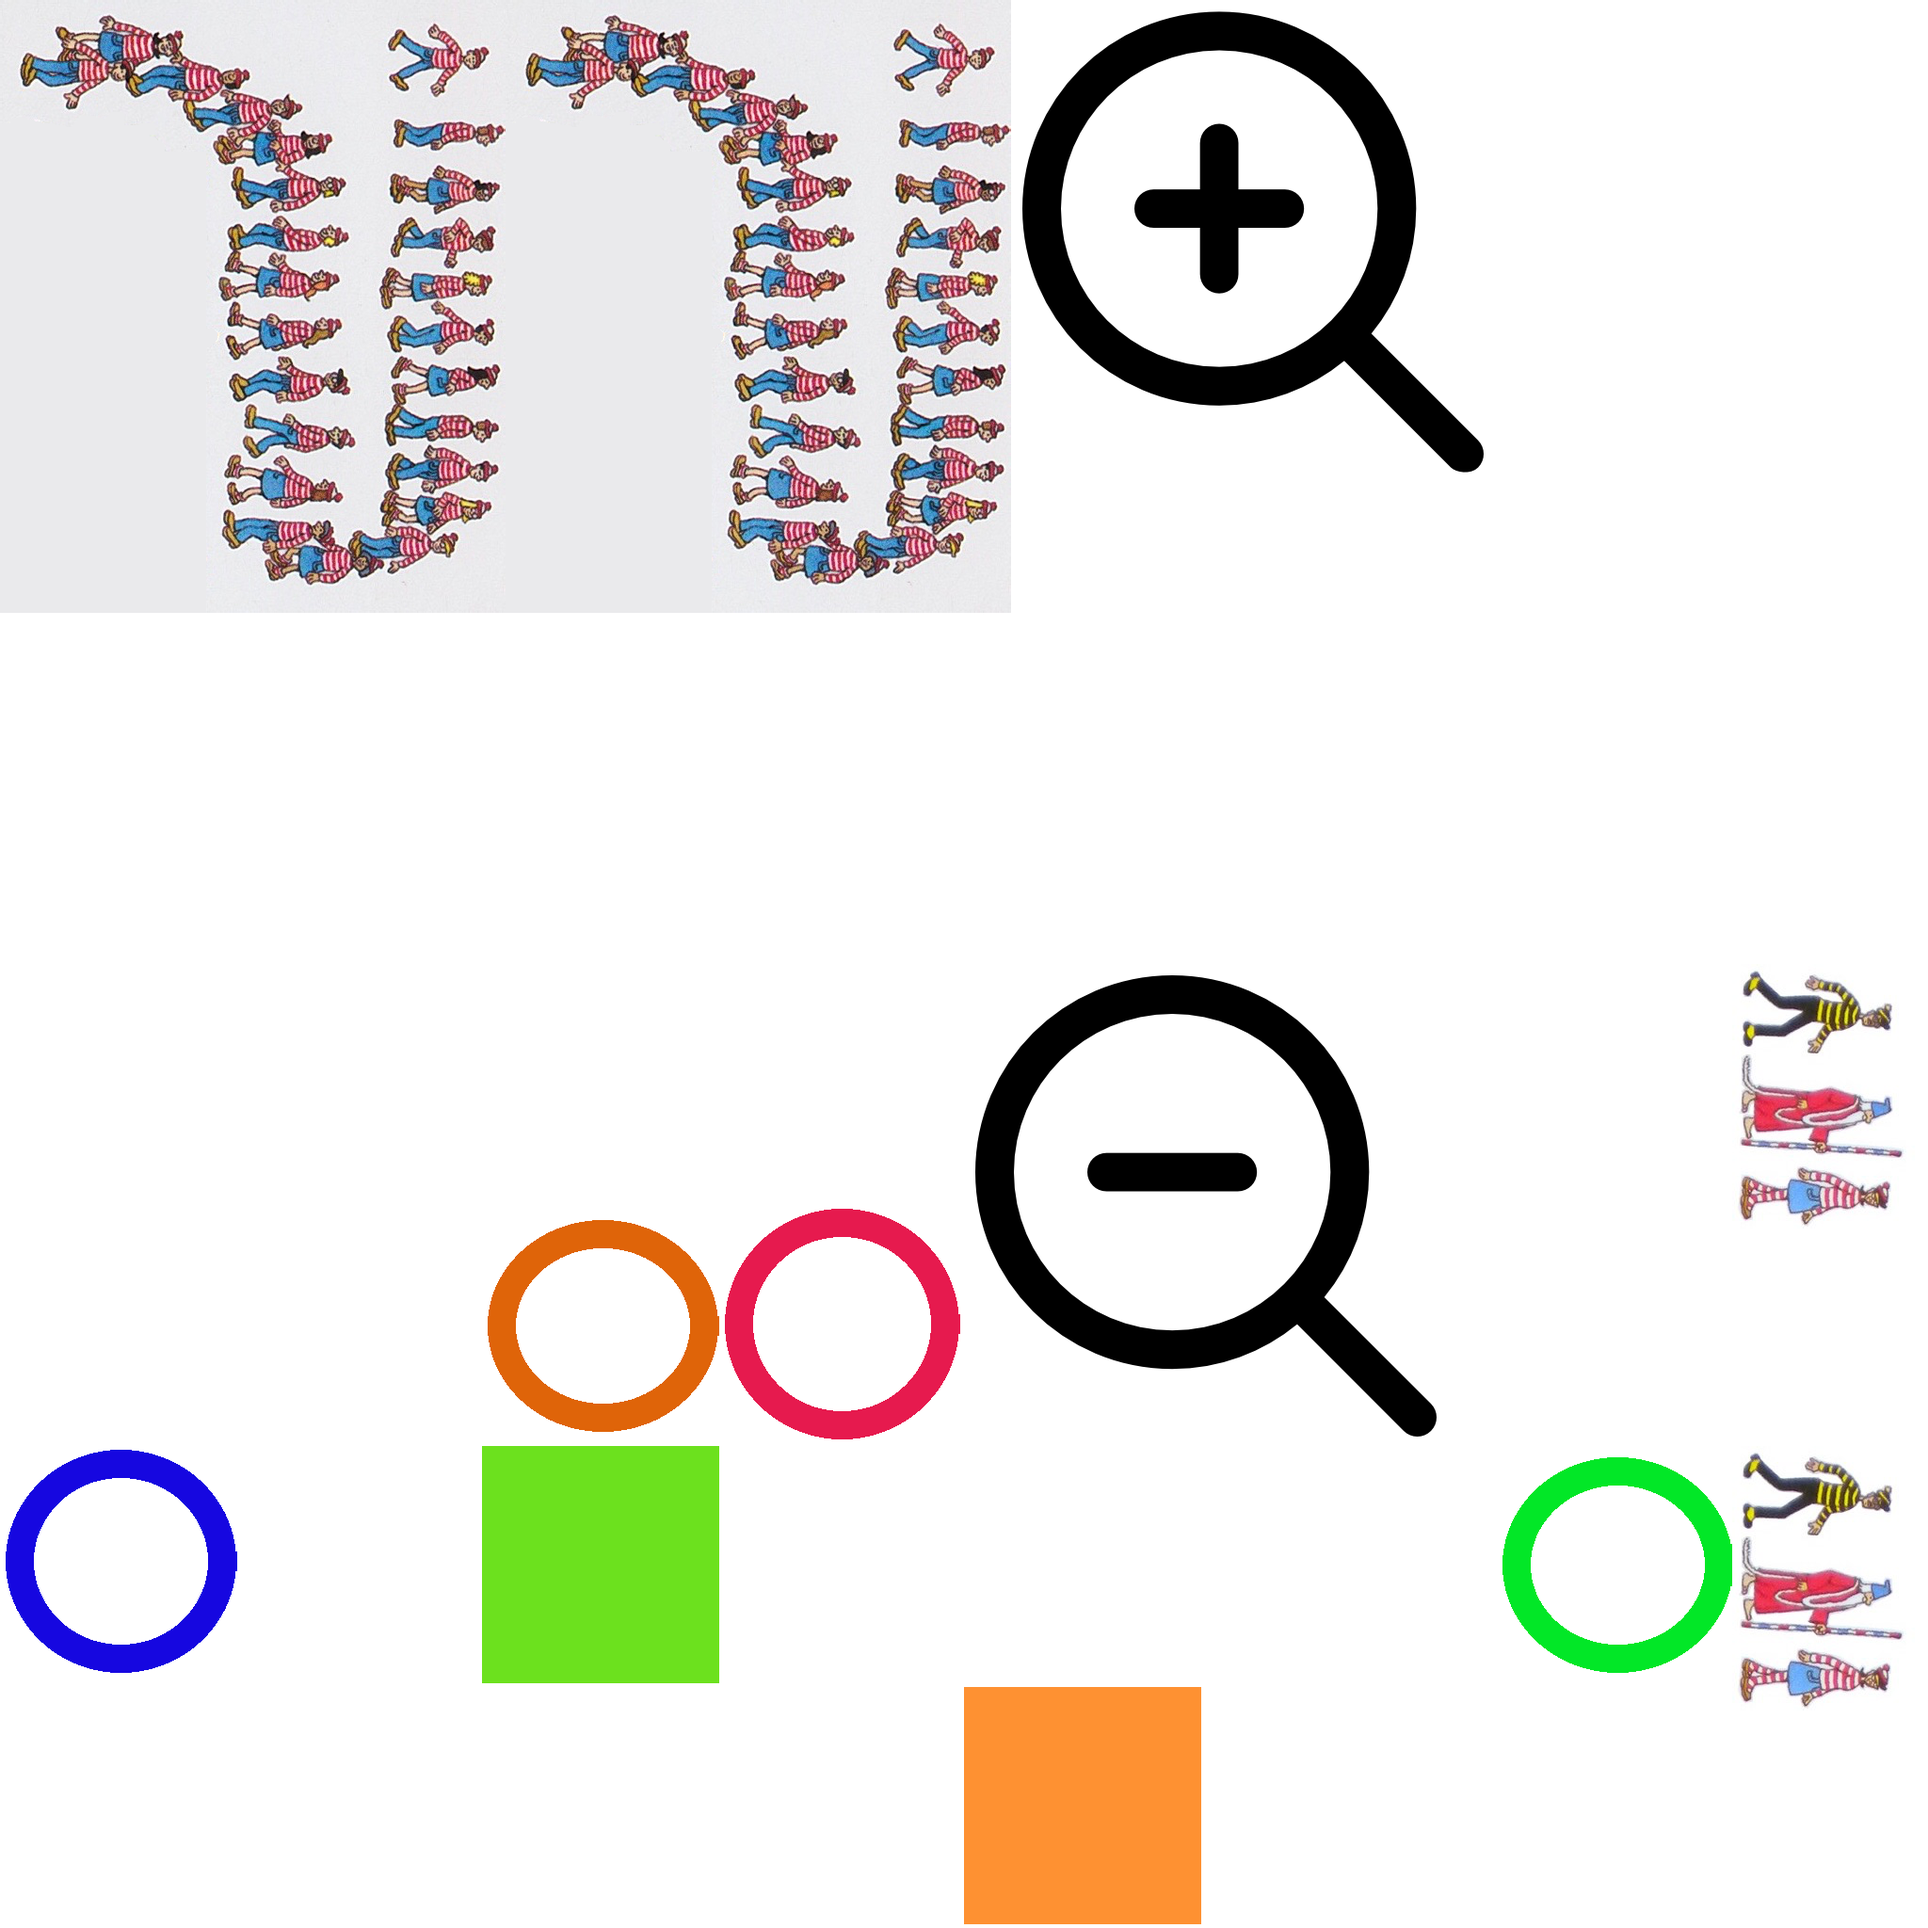
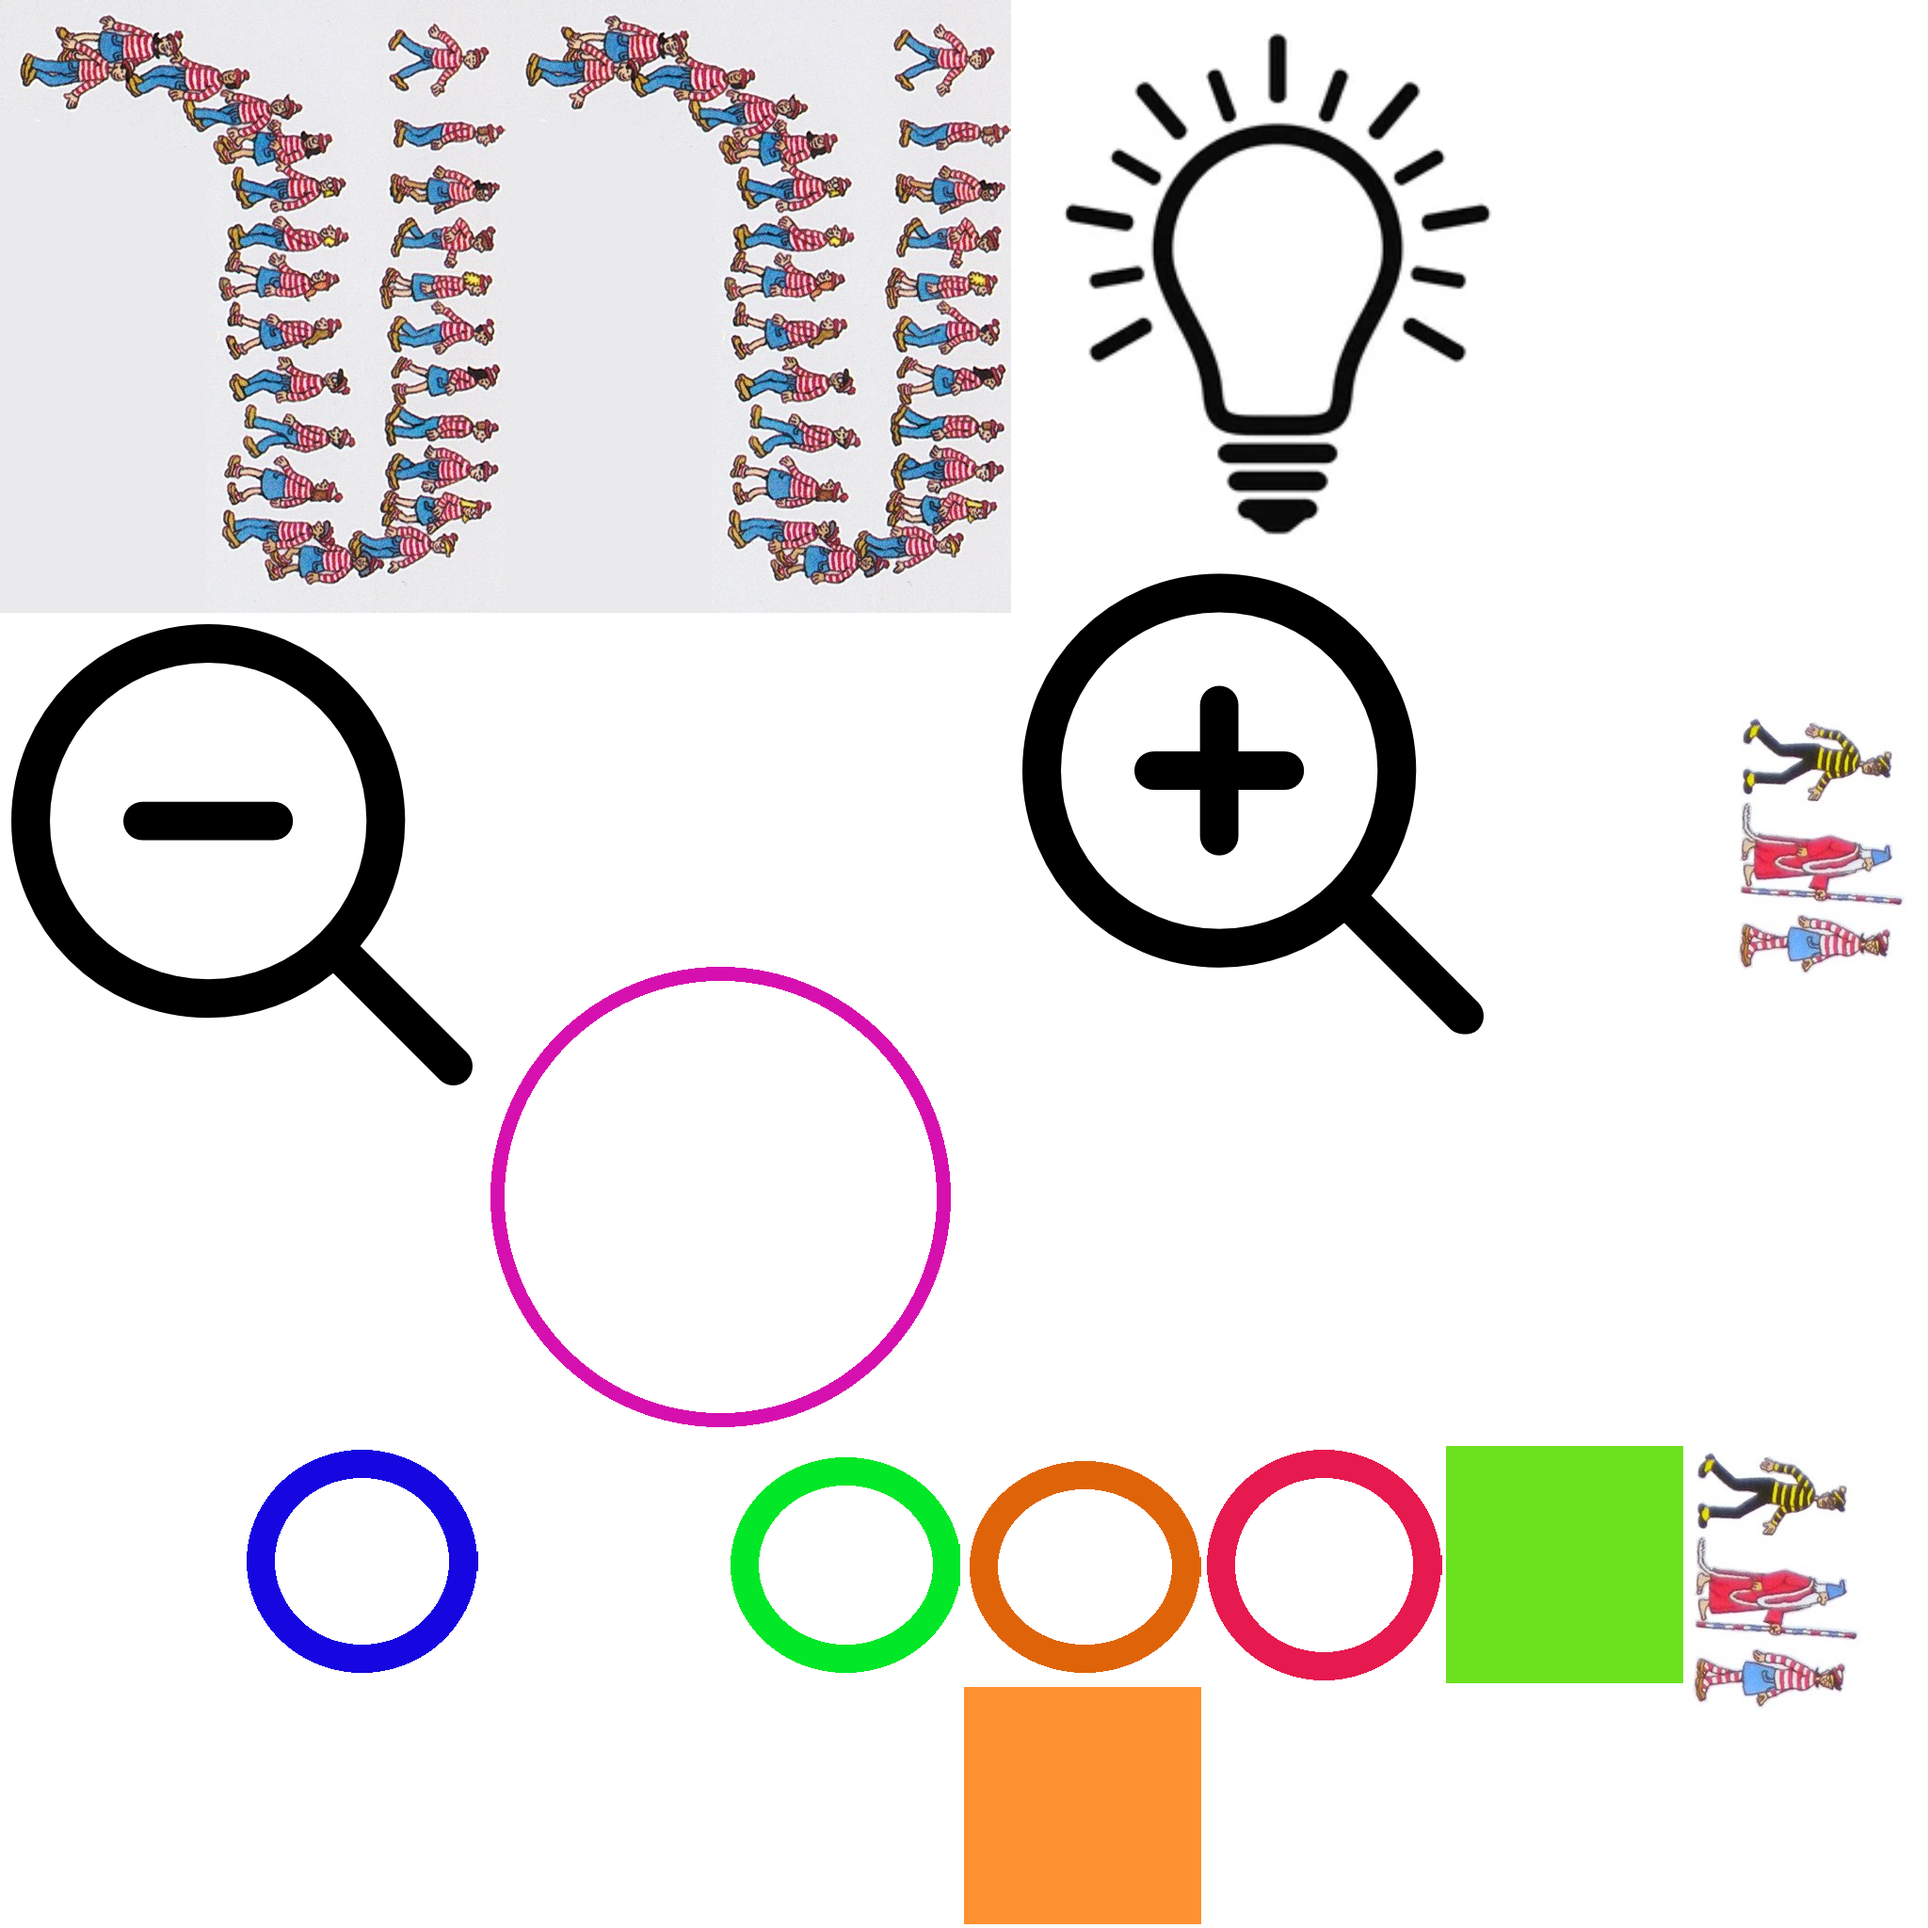
Add files via upload

diff --git a/scripts/c3runtime.js b/scripts/c3runtime.js
@@ -4213,6 +4213,17 @@ d},Unpin(){this._SetPinInst(null);this._mode="";this._propSet.clear();this._pinI
 }
 
 {
+'use strict';{const C3=self.C3;C3.Behaviors.Flash=class FlashBehavior extends C3.SDKBehaviorBase{constructor(opts){super(opts)}Release(){super.Release()}}}{const C3=self.C3;C3.Behaviors.Flash.Type=class FlashType extends C3.SDKBehaviorTypeBase{constructor(behaviorType){super(behaviorType)}Release(){super.Release()}OnCreate(){}}}
+{const C3=self.C3;const C3X=self.C3X;const IBehaviorInstance=self.IBehaviorInstance;C3.Behaviors.Flash.Instance=class FlashInstance extends C3.SDKBehaviorInstanceBase{constructor(behInst,properties){super(behInst);this._onTime=0;this._offTime=0;this._stage=0;this._stageTimeLeft=0;this._timeLeft=0;this._StartTicking()}Release(){super.Release()}_Flash(on,off,dur){this._onTime=on;this._offTime=off;this._stage=1;this._stageTimeLeft=off;this._timeLeft=dur;this._inst.GetWorldInfo().SetVisible(false);this._runtime.UpdateRender()}_StopFlashing(){this._timeLeft=
+0;this._inst.GetWorldInfo().SetVisible(true);this._runtime.UpdateRender()}_IsFlashing(){return this._timeLeft>0}SaveToJson(){return{"on":this._onTime,"off":this._offTime,"s":this._stage,"stl":this._stageTimeLeft,"tl":this._timeLeft}}LoadFromJson(o){this._onTime=o["on"];this._offTime=o["off"];this._stage=o["s"];this._stageTimeLeft=o["stl"];this._timeLeft=o["tl"]===null?Infinity:o["tl"]}Tick(){if(this._timeLeft<=0)return;const dt=this._runtime.GetDt(this._inst);this._timeLeft-=dt;if(this._timeLeft<=
+0){this._timeLeft=0;this._inst.GetWorldInfo().SetVisible(true);this._runtime.UpdateRender();this.DispatchScriptEvent("flashend");return this.DebugTrigger(C3.Behaviors.Flash.Cnds.OnFlashEnded)}this._stageTimeLeft-=dt;if(this._stageTimeLeft<=0){if(this._stage===0){this._inst.GetWorldInfo().SetVisible(false);this._stage=1;this._stageTimeLeft+=this._offTime}else{this._inst.GetWorldInfo().SetVisible(true);this._stage=0;this._stageTimeLeft+=this._onTime}this._runtime.UpdateRender()}}GetDebuggerProperties(){const prefix=
+"behaviors.flash.debugger";return[{title:"$"+this.GetBehaviorType().GetName(),properties:[{name:prefix+".on-time",value:this._onTime,onedit:v=>this._onTime=v},{name:prefix+".off-time",value:this._offTime,onedit:v=>this._offTime=v},{name:prefix+".is-flashing",value:this._timeLeft>0},{name:prefix+".time-left",value:this._timeLeft}]}]}GetScriptInterfaceClass(){return self.IFlashBehaviorInstance}};const map=new WeakMap;self.IFlashBehaviorInstance=class IFlashBehaviorInstance extends IBehaviorInstance{constructor(){super();
+map.set(this,IBehaviorInstance._GetInitInst().GetSdkInstance())}flash(on,off,dur){C3X.RequireFiniteNumber(on);C3X.RequireFiniteNumber(off);C3X.RequireFiniteNumber(dur);map.get(this)._Flash(on,off,dur)}stop(){map.get(this)._StopFlashing()}get isFlashing(){return map.get(this)._IsFlashing()}}}{const C3=self.C3;C3.Behaviors.Flash.Cnds={IsFlashing(){return this._IsFlashing()},OnFlashEnded(){return true}}}{const C3=self.C3;C3.Behaviors.Flash.Acts={Flash(on,off,dur){this._Flash(on,off,dur)},StopFlashing(){this._StopFlashing()}}}
+{const C3=self.C3;C3.Behaviors.Flash.Exps={}};
+
+}
+
+{
 const C3 = self.C3;
 self.C3_GetObjectRefTable = function () {
 	return [
@@ -4227,6 +4238,7 @@ self.C3_GetObjectRefTable = function () {
 		C3.Plugins.List,
 		C3.Plugins.Dictionary,
 		C3.Plugins.Browser,
+		C3.Behaviors.Flash,
 		C3.Plugins.Touch.Cnds.OnTapGestureObject,
 		C3.Plugins.System.Acts.GoToLayout,
 		C3.Plugins.System.Cnds.OnLayoutStart,
@@ -4258,8 +4270,8 @@ self.C3_GetObjectRefTable = function () {
 		C3.Plugins.System.Cnds.CompareBoolVar,
 		C3.Plugins.NinePatch.Acts.SetVisible,
 		C3.Plugins.System.Cnds.Else,
-		C3.Plugins.System.Cnds.OnLoadFinished,
-		C3.Plugins.Browser.Acts.LockOrientation,
+		C3.Behaviors.Flash.Acts.Flash,
+		C3.Behaviors.Flash.Cnds.OnFlashEnded,
 		C3.Plugins.List.Cnds.CompareSelection,
 		C3.Plugins.List.Cnds.OnSelectionChanged,
 		C3.Plugins.List.Acts.SetBlur
@@ -4328,6 +4340,10 @@ self.C3_JsPropNameTable = [
 	{wally_fans2: 0},
 	{wally_items2: 0},
 	{close_text: 0},
+	{wally_text3: 0},
+	{wally_text4: 0},
+	{Flash: 0},
+	{hint_circle: 0},
 	{startDistance: 0},
 	{startScale: 0},
 	{tails_left: 0},
@@ -4389,7 +4405,10 @@ self.InstanceType = {
 	wally_sprite2: class extends self.ISpriteInstance {},
 	wally_fans2: class extends self.ISpriteInstance {},
 	wally_items2: class extends self.ISpriteInstance {},
-	close_text: class extends self.ITextInstance {}
+	close_text: class extends self.ITextInstance {},
+	wally_text3: class extends self.ITextInstance {},
+	wally_text4: class extends self.ITextInstance {},
+	hint_circle: class extends self.ISpriteInstance {}
 }
 }
 
@@ -4546,6 +4565,7 @@ self.C3_ExpressionFuncs = [
 			const n3 = p._GetNode(3);
 			return () => ((("Time: " + f0(n1.ExpObject("minutes"), 2)) + ":") + f2(n3.ExpObject("seconds"), 2));
 		},
+		() => 0.2,
 		() => 6,
 		() => -1,
 		() => "Don't forget to select the difficulty level!",
